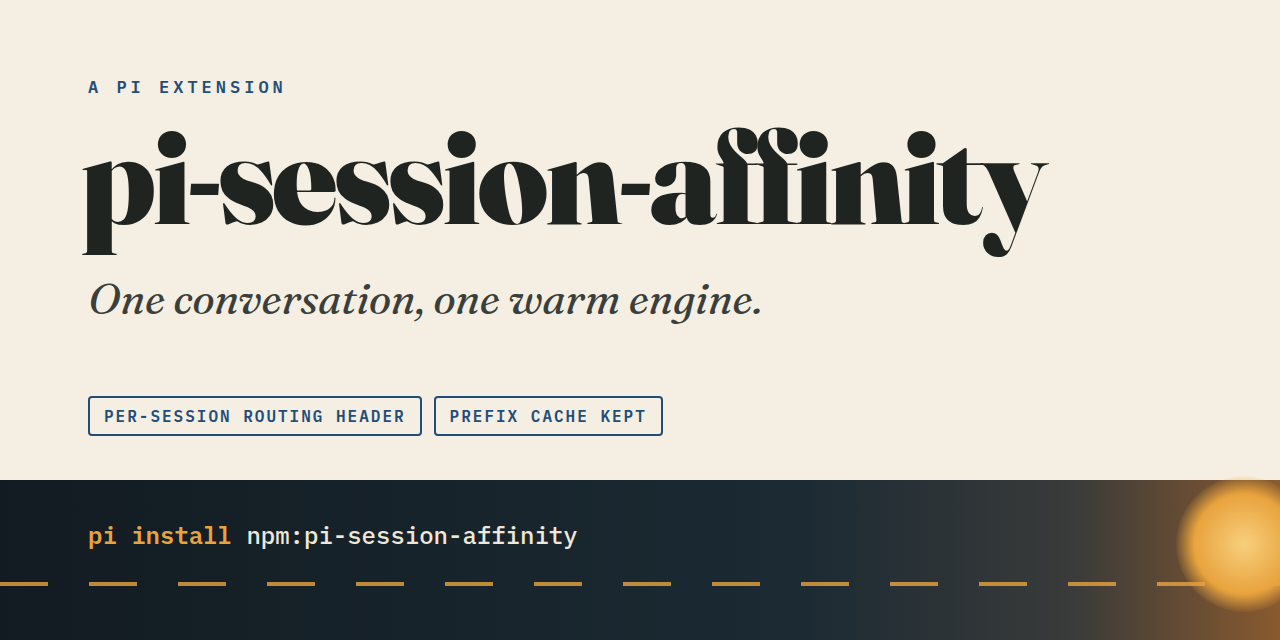
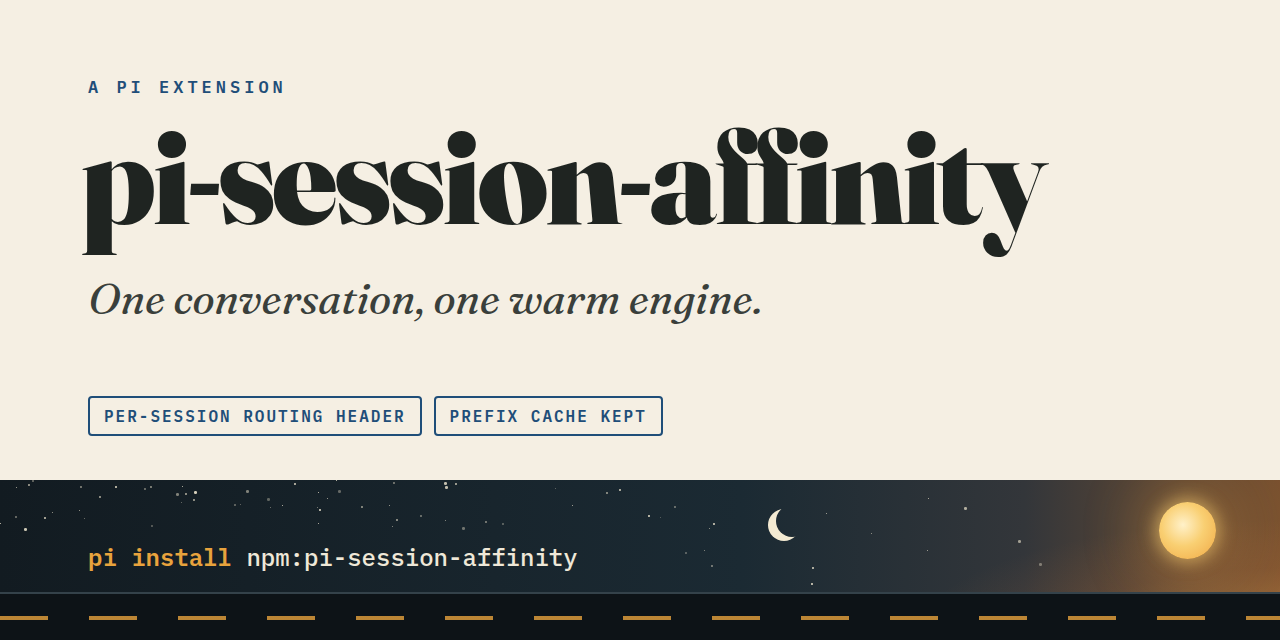
README: why it exists, with an infographic
The README opens with the infographic, what the extension does in one line,
the install command, and a "Why" section: the problem it solves and what
each alternative costs. The infographic replaces the plain card as the
package's pi.image, and the social preview gets the night sky.

Changed region(s): [[0.0, 0.75, 1.0, 1.0], [0.5938, 0.8125, 0.625, 0.8438]]

diff --git a/README.md b/README.md
@@ -1,6 +1,16 @@
 # pi-session-affinity
 
-**Keep one [pi](https://github.com/earendil-works/pi) conversation on one inference engine.**
+![pi-session-affinity: the same twelve-request conversation without the header, moving between two engines five times, and with it, staying on one; median time to first token 1.5 s against 7.5 s, worst 7.7 s against 28.9 s, 4,136 tokens recomputed against 51,483](https://raw.githubusercontent.com/lobo235/pi-session-affinity/main/.github/assets/infographic.png)
+
+**One conversation, one warm engine.** pi-session-affinity keeps each [pi](https://github.com/earendil-works/pi) conversation on the inference
+engine that holds its prompt cache. On one measured conversation behind a gateway balancing two engines, the
+median time to first token fell from 7.5 s to 1.5 s, and the worst from 28.9 s to 7.7 s.
+
+```bash
+pi install npm:pi-session-affinity
+```
+
+## Why pi-session-affinity
 
 A prompt cache belongs to one inference engine. When a gateway spreads one model across several engines and
 picks one per request, a pi conversation that moves to another engine pays for its whole prompt again: at 50k

diff --git a/CONTRIBUTING.md b/CONTRIBUTING.md
@@ -72,7 +72,7 @@ configuration be made again.
 
 **Where a release shows up.** The [pi package gallery](https://pi.dev/packages) lists the package from npm within
 minutes of a publish: its card shows the `package.json` `description` and the `pi.image` card
-(`.github/assets/card.png`, pinned to the release tag), and its page renders the README inside the published
+(`.github/assets/infographic.png`, pinned to the release tag), and its page renders the README inside the published
 tarball. Editing either on GitHub changes nothing there until the next release, and a README link to a file the
 package does not ship must be an absolute GitHub URL. After `publish`, `release.yml` creates the GitHub Release
 for the tag from its `CHANGELOG.md` section; for the manual first publish, run
